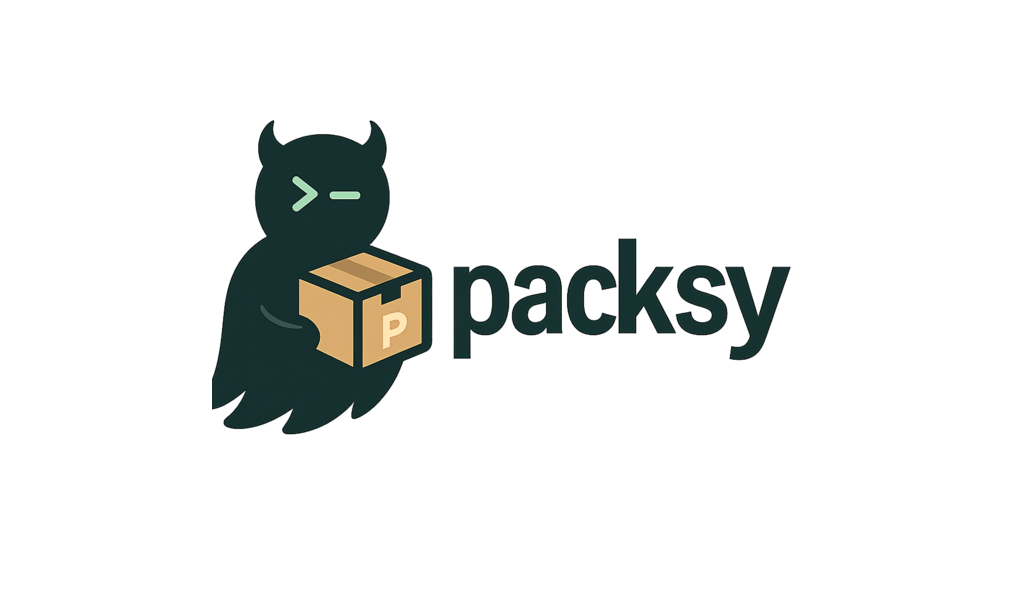
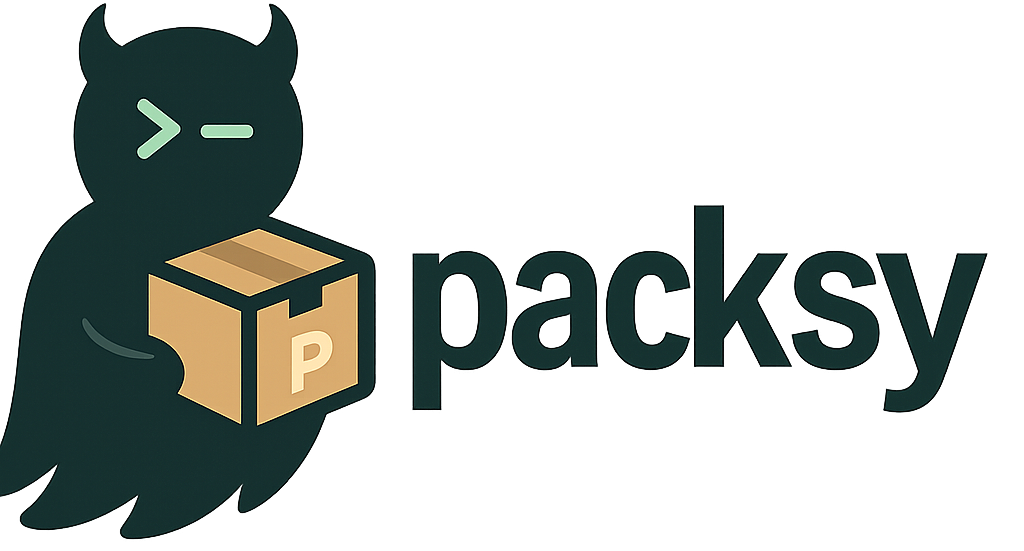
Crop

diff --git a/README.md b/README.md
@@ -1,5 +1,5 @@
 <p align="center">
-  <img src="assets/banner.png" alt="Packsy banner" />
+  <img src="assets/banner.png" alt="Packsy banner" width="100%" />
 </p>
 
 # Packsy
